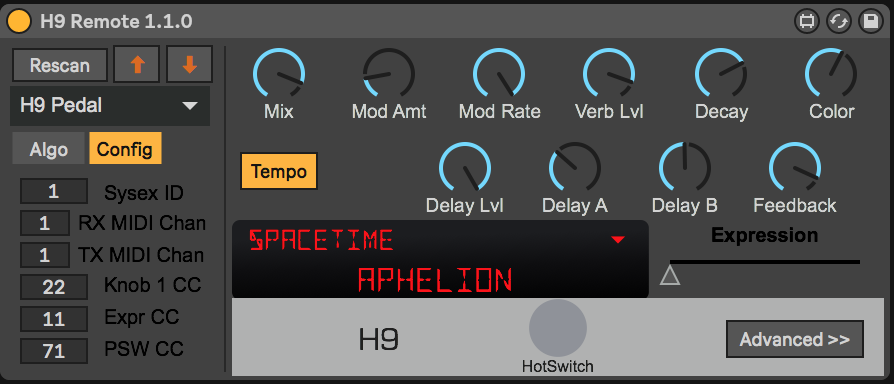
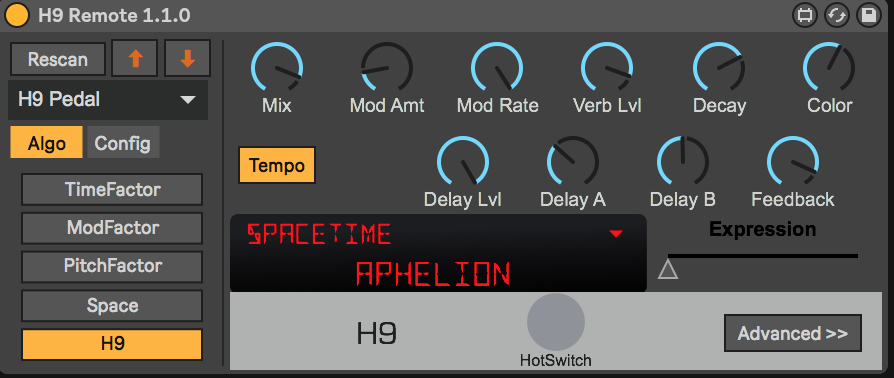
Add configuration screenshot

diff --git a/README.md b/README.md
@@ -94,6 +94,8 @@ If you are using DIN MIDI but the devices are on different ports of a multi-port
 
 # Plugin Configuration and Setup
 
+![Preview image of plugin with configuration panel open](docs/images/config1.1.png)
+
 Insert the plugin after powering on and connecting your H9 to your computer. The plugin will initially load in Live with no configuration and a default preset. This preset will not initially be transmitted to the H9. In order to establish communication between the plugin and your H9, you must do the following:
 
 * Choose the right MIDI port in the dropdown. If the software successfully opens the port, the button that initially says "Rescan" will switch to "Connected". This does not mean it found an H9! It just means the MIDI port was opened and it can now send and receive MIDI data to that port.
